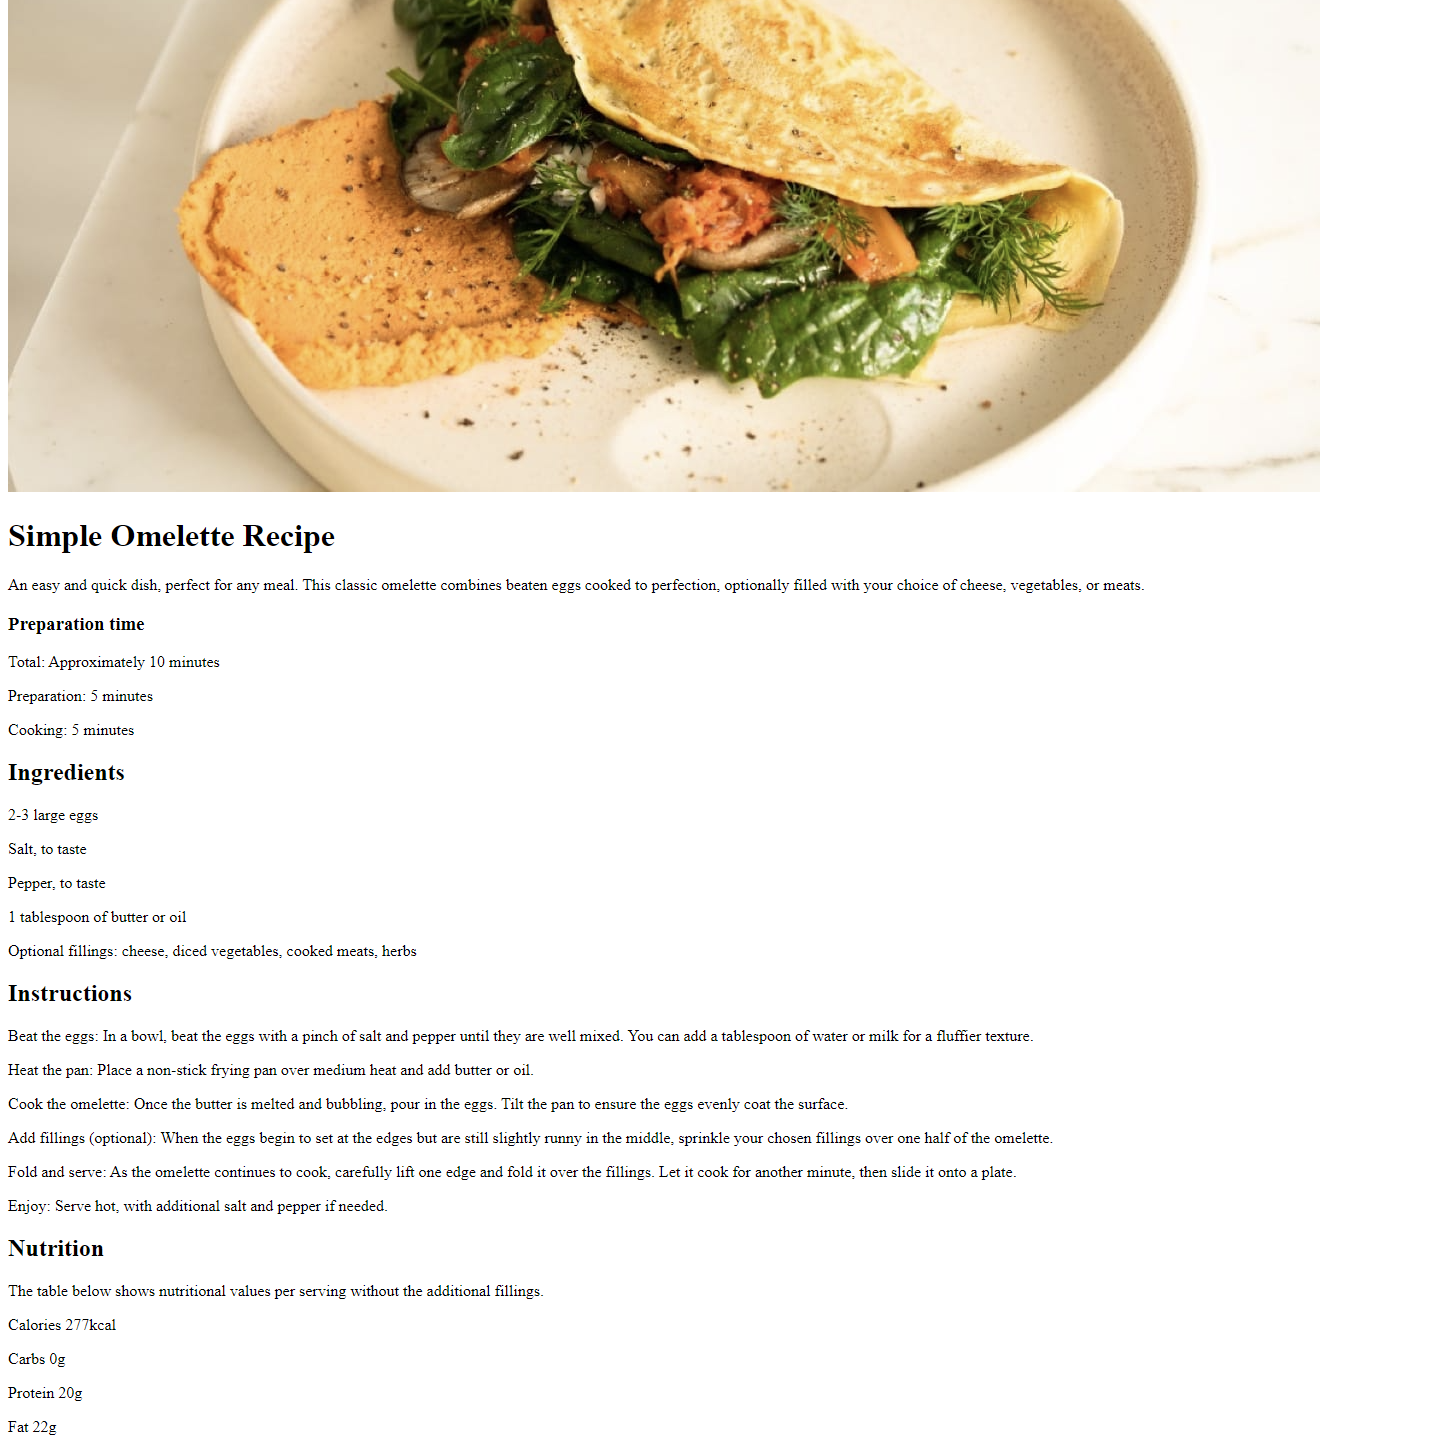
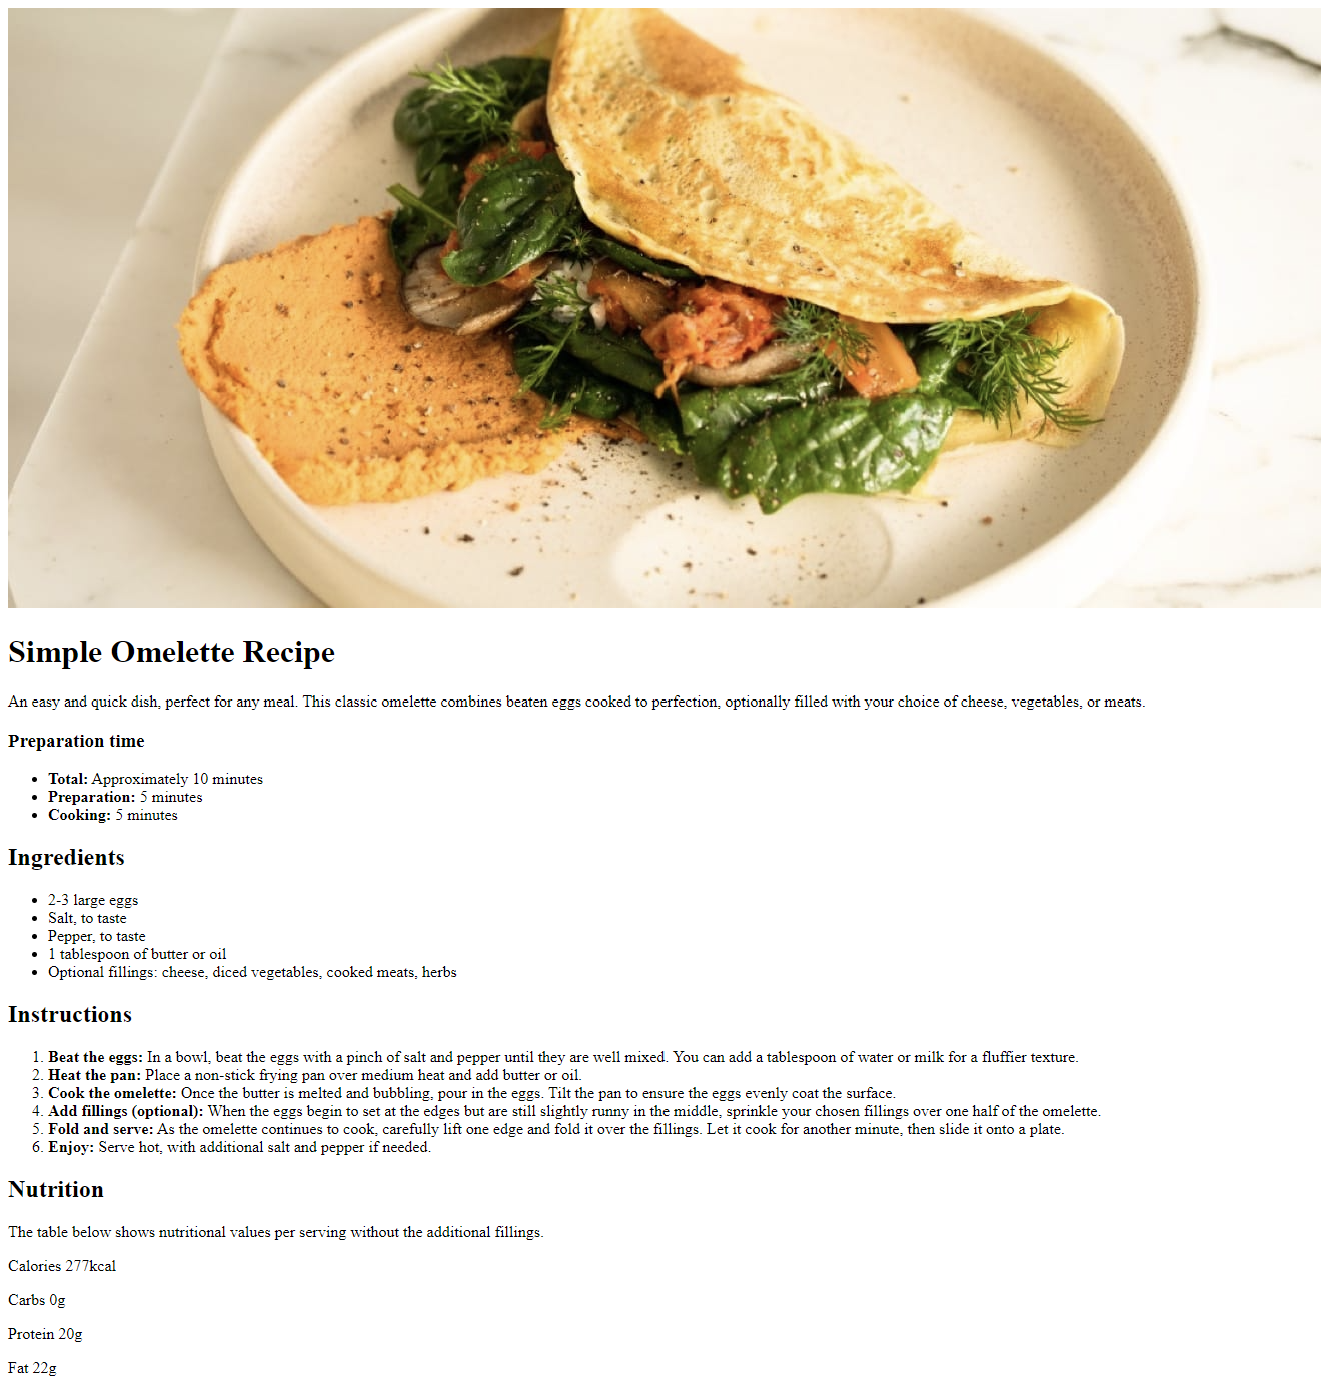
avance4

diff --git a/index.html b/index.html
@@ -24,36 +24,39 @@
   to perfection, optionally filled with your choice of cheese, vegetables, or meats.</p>
 
   <h3>Preparation time</h3>
-
-  <p>Total: Approximately 10 minutes</p>
- <p>Preparation: 5 minutes</p>
-<p>Cooking: 5 minutes</p>
+<ul>
+<li><strong>Total:</strong> Approximately 10 minutes</li>
+<li><strong>Preparation:</strong> 5 minutes</li>
+<li><strong>Cooking: </strong> 5 minutes</li>
+</ul>
 
   <h2>Ingredients</h2>
-
-  <p>2-3 large eggs</p>
-  <p>Salt, to taste</p>
-  <p>Pepper, to taste</p>
-  <p>1 tablespoon of butter or oil</p>
-  <p>Optional fillings: cheese, diced vegetables, cooked meats, herbs</p>
+<ul>
+  <li>2-3 large eggs</li>
+  <li>Salt, to taste</li>
+  <li>Pepper, to taste</li>
+  <li>1 tablespoon of butter or oil</li>
+  <li>Optional fillings: cheese, diced vegetables, cooked meats, herbs</li>
+</ul>
 
   <h2>Instructions</h2>
+<ol>
+  <li><strong>Beat the eggs:</strong> In a bowl, beat the eggs with a pinch of salt and pepper until they are well mixed. 
+  You can add a tablespoon of water or milk for a fluffier texture.</li>
 
-  <p>Beat the eggs: In a bowl, beat the eggs with a pinch of salt and pepper until they are well mixed. 
-  You can add a tablespoon of water or milk for a fluffier texture.</p>
+  <li><strong>Heat the pan:</strong> Place a non-stick frying pan over medium heat and add butter or oil.</li>
 
-  <p>Heat the pan: Place a non-stick frying pan over medium heat and add butter or oil.</p>
+  <li><strong>Cook the omelette:</strong> Once the butter is melted and bubbling, pour in the eggs. Tilt the pan to ensure 
+  the eggs evenly coat the surface.</li>
 
-  <p>Cook the omelette: Once the butter is melted and bubbling, pour in the eggs. Tilt the pan to ensure 
-  the eggs evenly coat the surface.</p>
+  <li><strong>Add fillings (optional):</strong> When the eggs begin to set at the edges but are still slightly runny in the 
+  middle, sprinkle your chosen fillings over one half of the omelette.</li>
 
-  <p>Add fillings (optional): When the eggs begin to set at the edges but are still slightly runny in the 
-  middle, sprinkle your chosen fillings over one half of the omelette.</p>
+  <li><strong>Fold and serve:</strong> As the omelette continues to cook, carefully lift one edge and fold it over the 
+  fillings. Let it cook for another minute, then slide it onto a plate.</li>
 
-  <p>Fold and serve: As the omelette continues to cook, carefully lift one edge and fold it over the 
-  fillings. Let it cook for another minute, then slide it onto a plate.</p>
-
-  <p>Enjoy: Serve hot, with additional salt and pepper if needed.</p>
+  <li><strong>Enjoy:</strong> Serve hot, with additional salt and pepper if needed.</li>
+</ol>
 
   <h2>Nutrition</h2>
 
